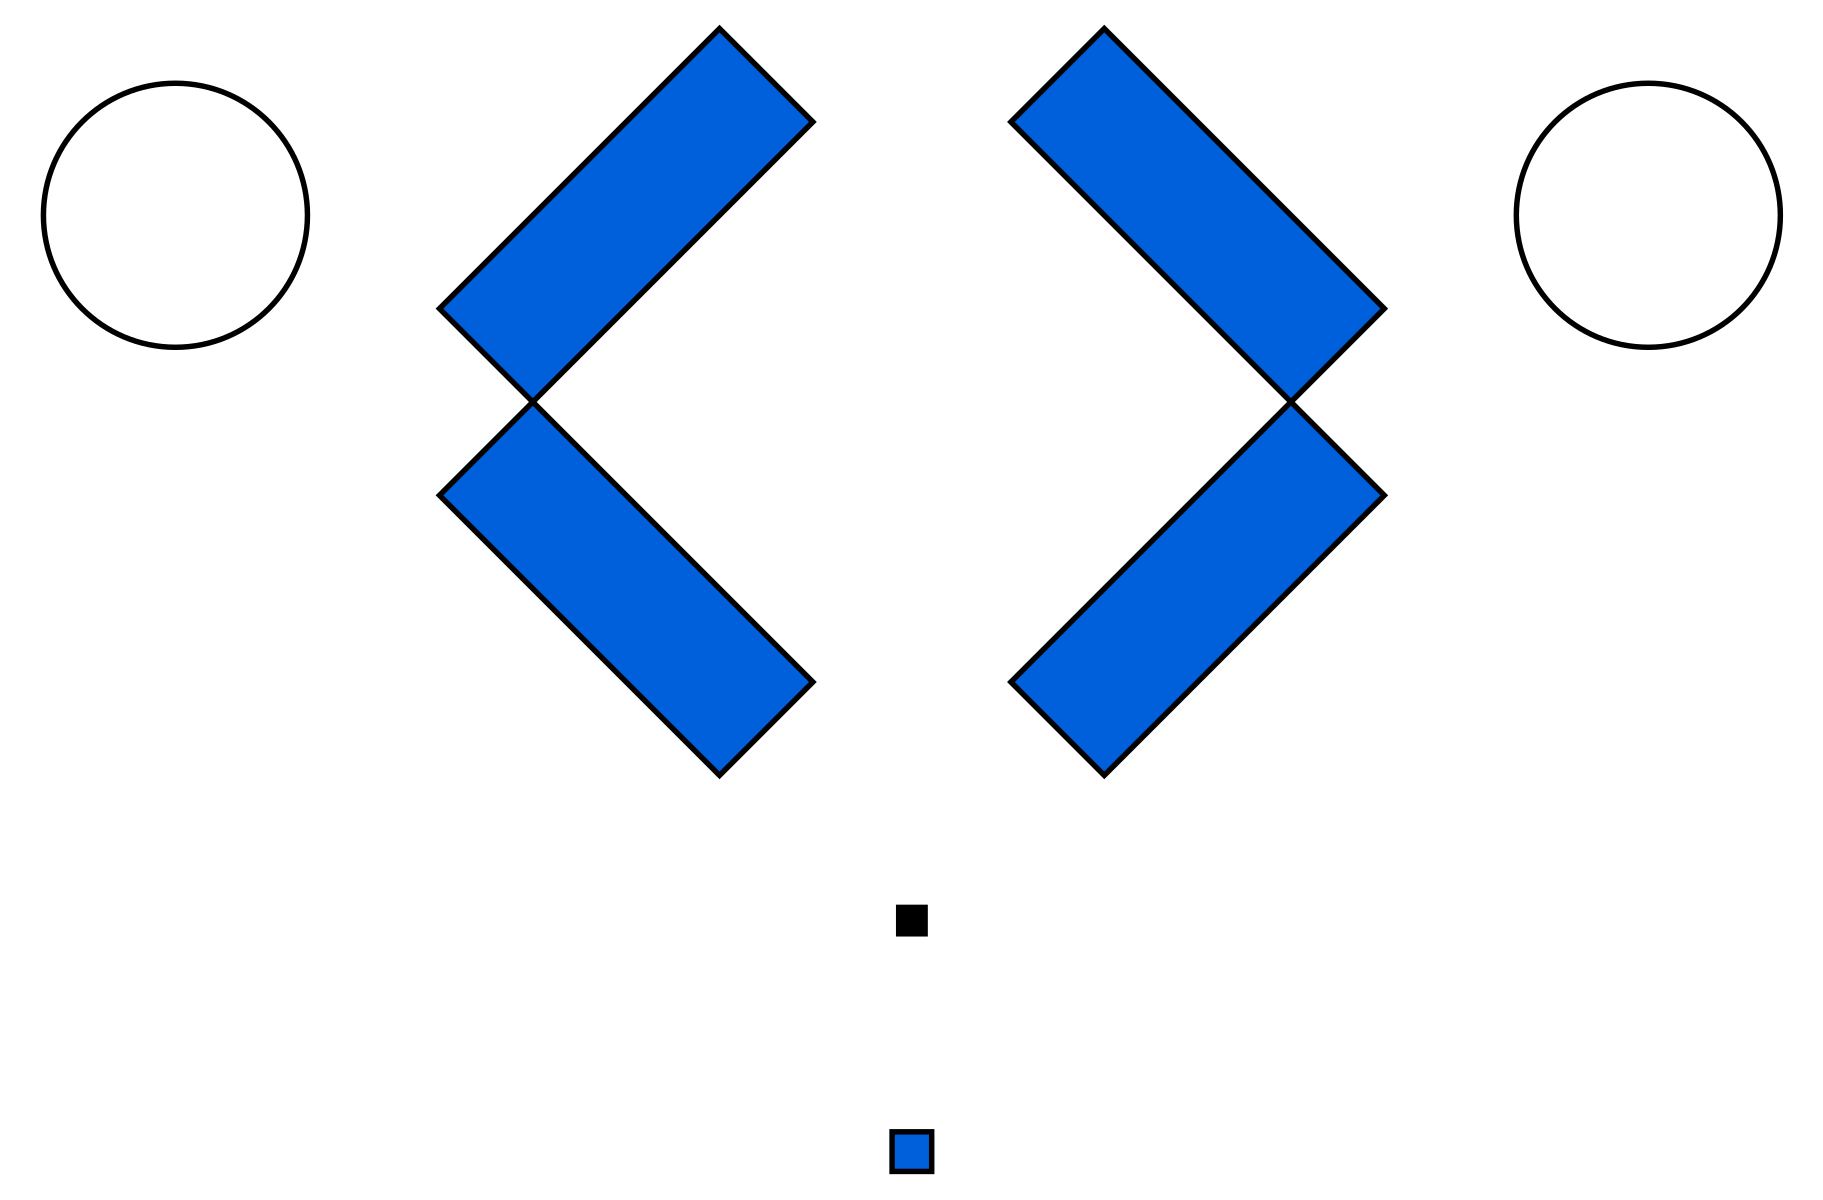
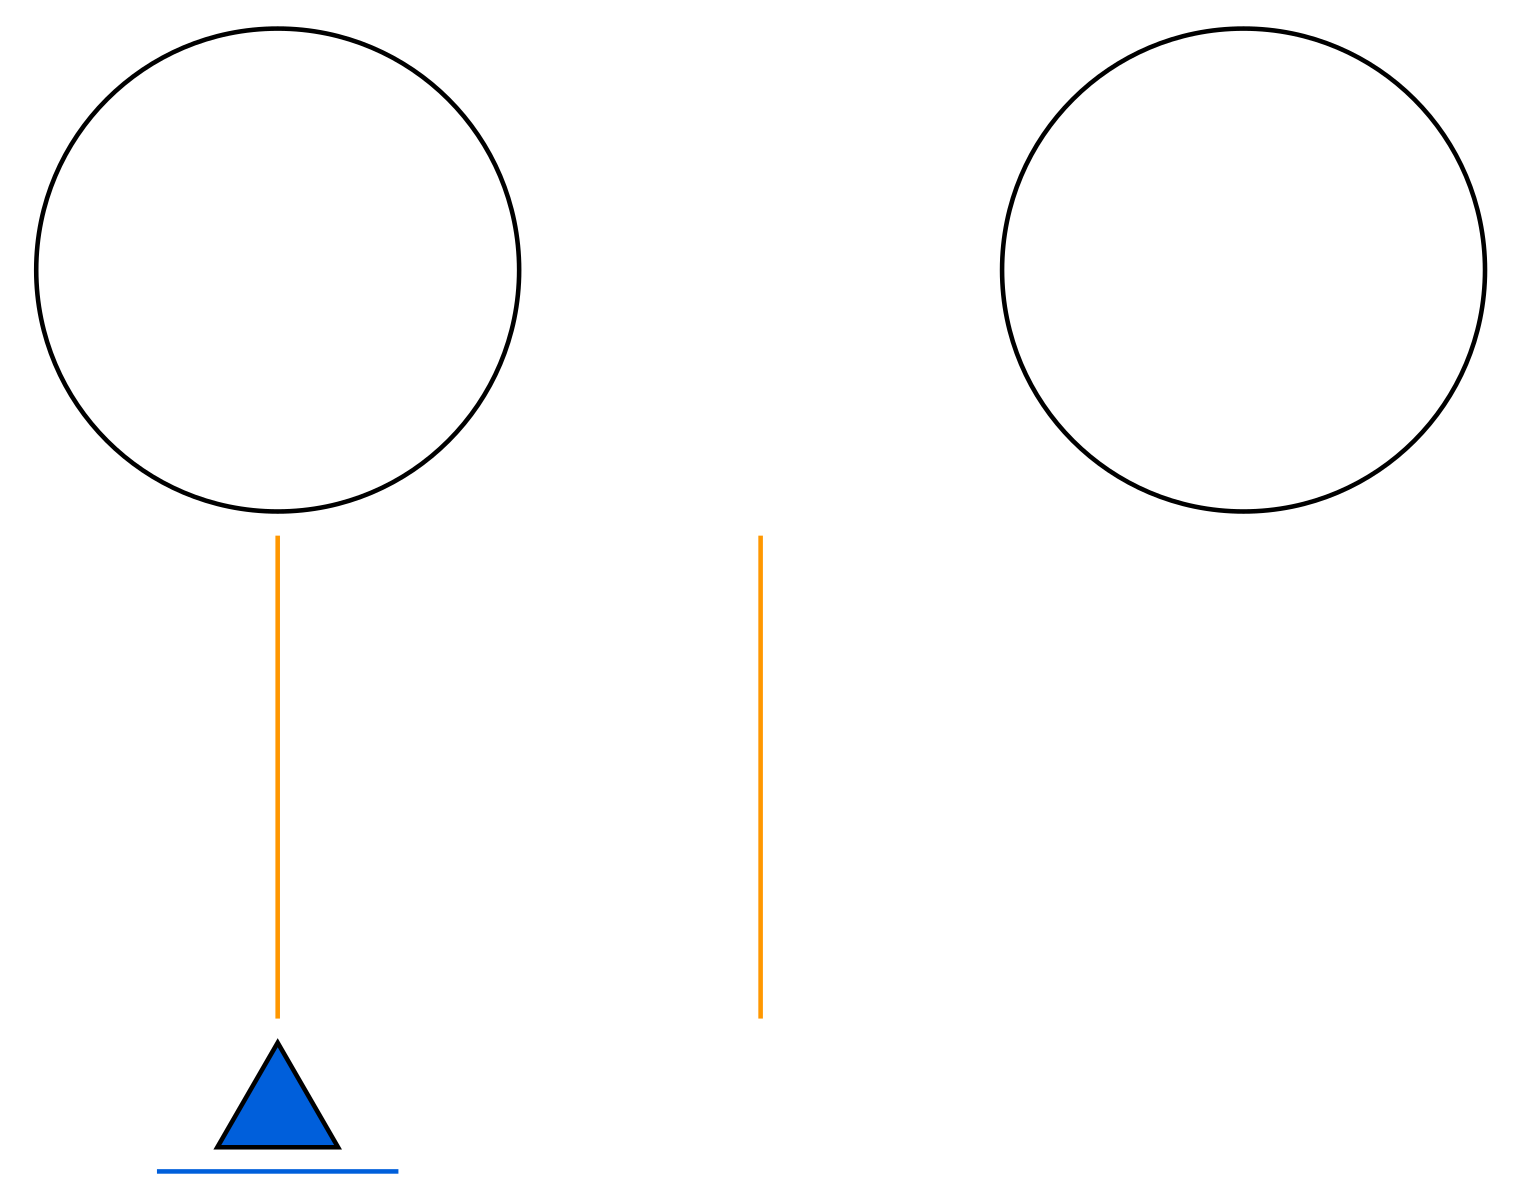
fix triangle API in prompt

diff --git a/outputs/bicycle.py b/outputs/bicycle.py
@@ -1,36 +1,33 @@
 from colour import Color
 from chalk import *
-from colour import Color
-from chalk import *
 
-black = Color("#000000")
+papaya = Color("#ff9700")
 blue = Color("#005FDB")
-
-# Bicycle sizes
+# Define some constants for the sizing
 WHEEL_RADIUS = 1
-FRAME_SIZE = 1.5 
-SEAT_SIZE = 0.2
-HANDLE_SIZE = 0.3
+FRAME_SIZE = 2
+SEAT_SIZE = 0.5
+HANDLEBAR_WIDTH = 1
 
-# Drawing the wheels of the bicycle
-wheel = circle(radius=WHEEL_RADIUS).line_width(0.1) 
+# Create color objects
+black = Color("#000000")
+orange = Color("#ff9700")
 
-# Drawing the frame of the bicycle
-frame1 = rectangle(width=2 * FRAME_SIZE, height=1).fill_color(blue).rotate(45)
-frame2 = rectangle(width=2 * FRAME_SIZE, height=1).fill_color(blue).rotate(-45)
-bikeFrame = vcat([hcat([frame1, frame2], sep= FRAME_SIZE), hcat([frame2, frame1], sep=FRAME_SIZE)])
+# Create two wheels
+wheel = circle(radius=WHEEL_RADIUS).line_color(black)
+wheels = hcat([wheel, wheel], sep=2*WHEEL_RADIUS)
 
-# Drawing the seat of the bicycle
-seat = square(side=SEAT_SIZE).fill_color(black)
+# Create the frame of the bicycle
+frame = vrule(length=FRAME_SIZE).line_color(orange)
+frames = hcat([frame, frame], sep=2*WHEEL_RADIUS)
 
-# Drawing the handle of the bicycle
-handle = square(side=HANDLE_SIZE).fill_color(blue)
+# Create a seat
+seat = triangle(width=SEAT_SIZE).fill_color(blue)
 
-# Putting the bicycle parts together
-bicycle = vcat([
-    hcat([wheel, bikeFrame, wheel], sep=WHEEL_RADIUS).center_xy(),
-    vcat([seat, handle], sep=FRAME_SIZE).center_xy()
-], sep=WHEEL_RADIUS)
+# Create the handlebars
+handlebar = hrule(length=HANDLEBAR_WIDTH).line_color(blue)
+
+# Put them all together 
+bicycle = vcat([wheels, frames, seat, handlebar], sep=0.1).center_xy()
 
 bicycle.render("bicycle.png", 1200)
-

diff --git a/codraw/bicycle.py b/codraw/bicycle.py
@@ -23,5 +23,3 @@ with outfile.open("w") as f:
     f.write(HEADER)
     f.write(code)
 
-
-
